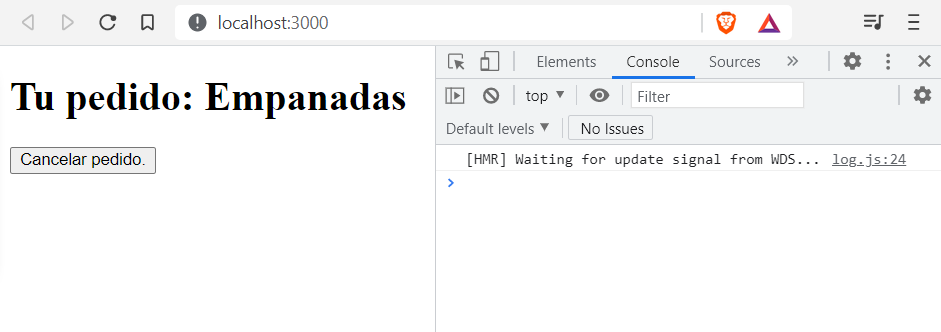
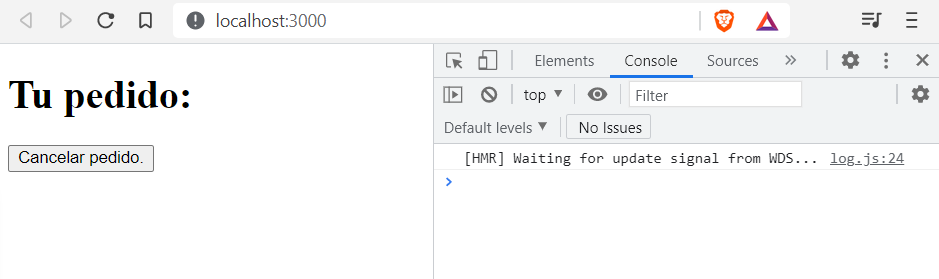
Change consigna1

diff --git a/clase-10/practica-clase-10-res/src/index.js b/clase-10/practica-clase-10-res/src/index.js
@@ -5,7 +5,7 @@ class Container extends React.Component {
   constructor(props) {
     super(props);
     this.state = {
-                    imHungryFor: "Empanadas", 
+                    imHungryFor: "", 
                     show: true
                  };
   }
